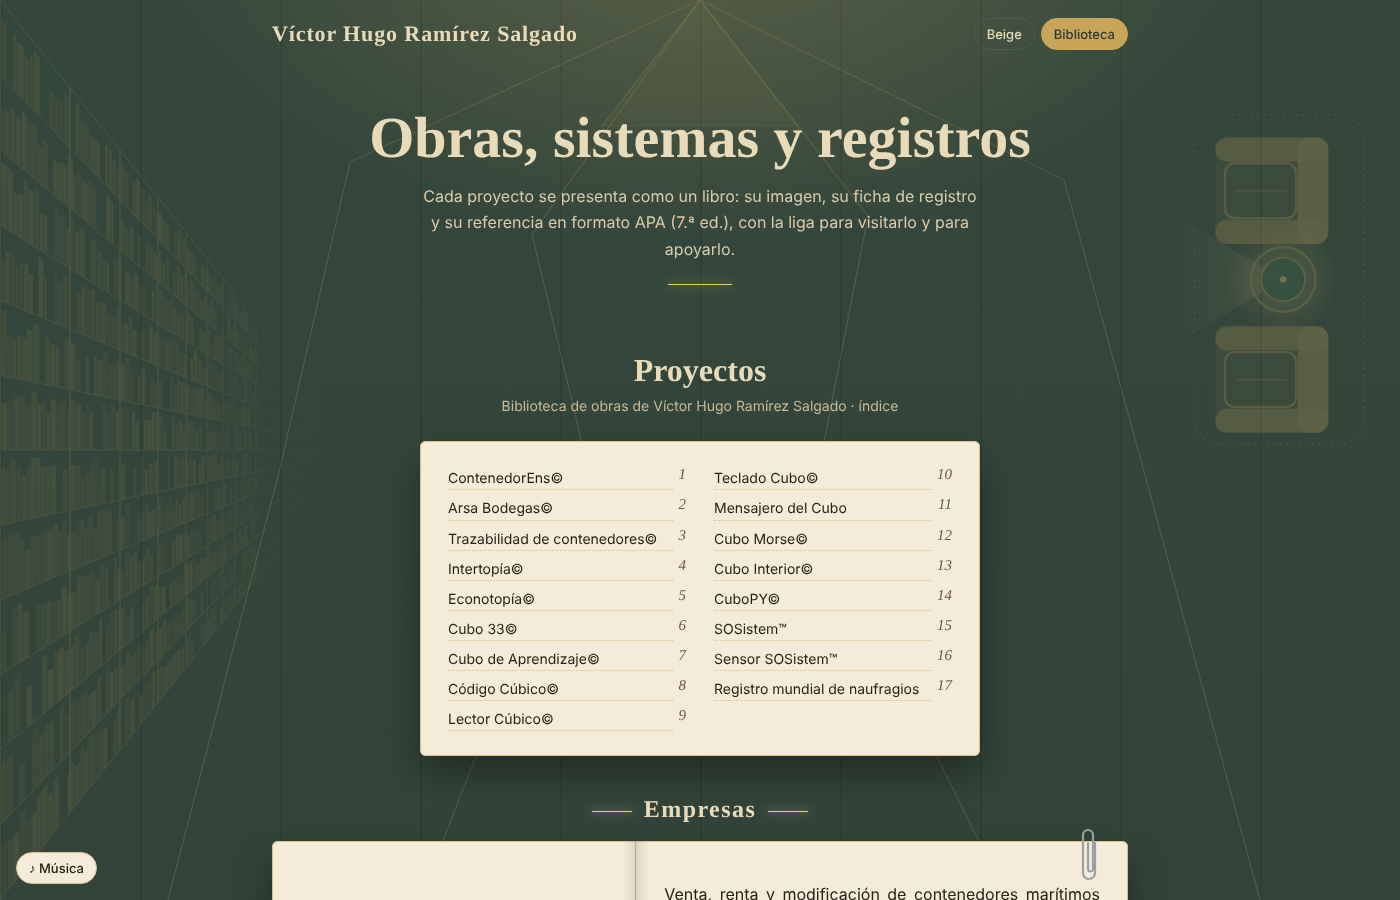
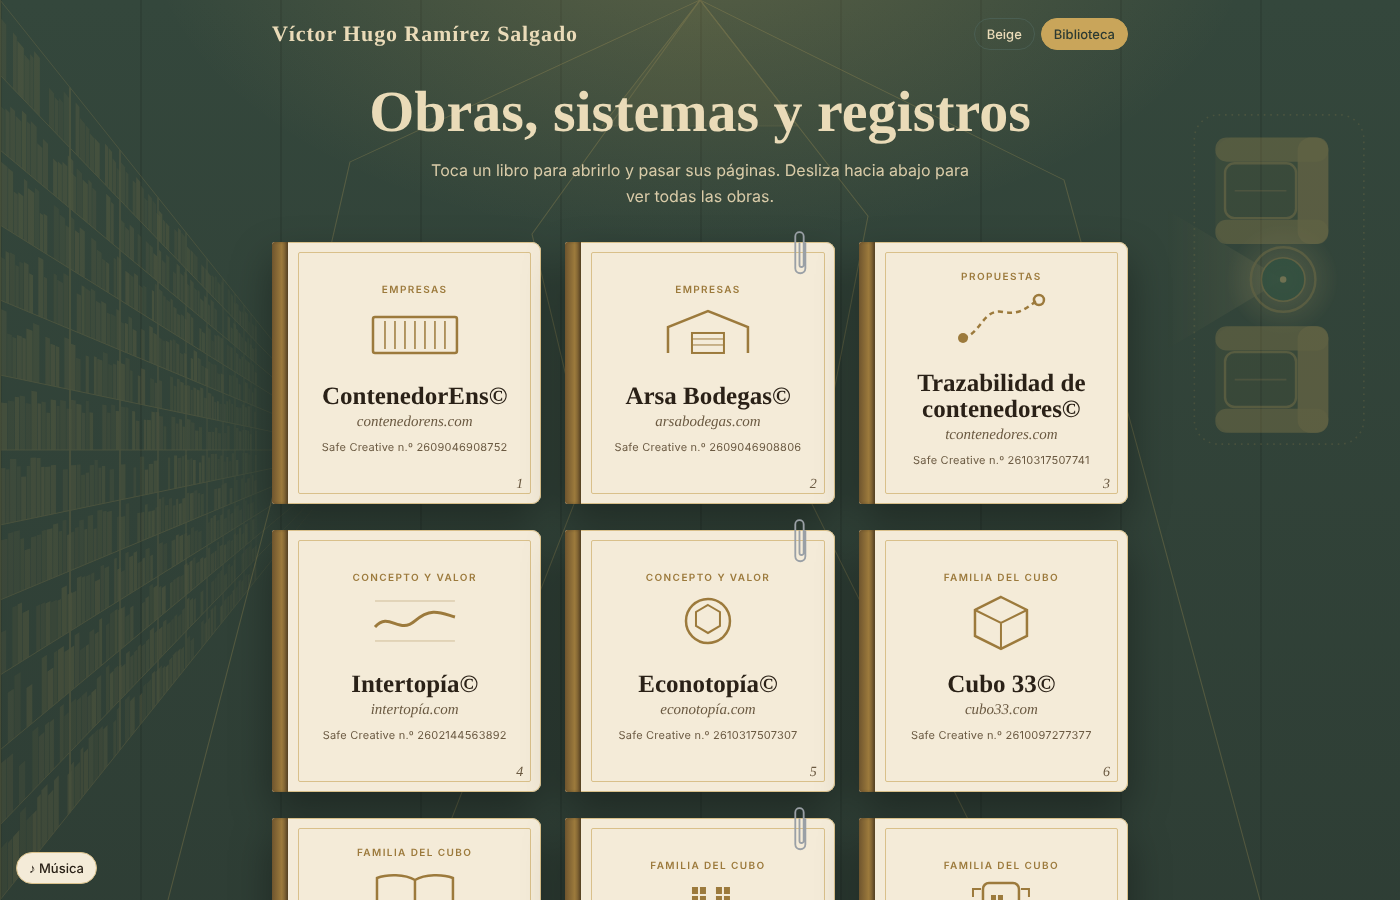
Propuesta: estante con las obras como libros (6 a la vista), libro abierto al tocar y pie de página con contacto y legales
Asistencia-IA

diff --git a/propuesta/index.html b/propuesta/index.html
@@ -7,7 +7,7 @@
 <title>Propuesta de diseño · Víctor Hugo Ramírez Salgado</title>
 <link rel="preconnect" href="https://fonts.googleapis.com"><link rel="preconnect" href="https://fonts.gstatic.com" crossorigin>
 <link href="https://fonts.googleapis.com/css2?family=Cormorant+Garamond:ital,wght@0,500;0,600;0,700;1,500&family=Inter:wght@400;500;600&display=swap" rel="stylesheet">
-<link rel="stylesheet" href="libro.css?v=2026-11-15a">
+<link rel="stylesheet" href="libro.css?v=2026-11-15b">
 </head>
 <body>
 <div class="libreria" aria-hidden="true"></div>
@@ -19,12 +19,12 @@
 
 <section class="intro">
 <h1>Obras, sistemas y registros</h1>
-<p>Abre el libro: pasa las páginas, amplía la lectura o toca la portada de cada obra para entrar a ella.</p>
-<div class="filete"></div>
+<p>Toca un libro para abrirlo y pasar sus páginas. Desliza hacia abajo para ver todas las obras.</p>
 </section>
 
+<section class="estante" id="estante" aria-label="Estante de obras"></section>
 <section class="lector" aria-label="Libro de obras">
- <div class="barra"><button class="nav" id="ant">‹ Anterior</button><span class="cuenta" id="cuenta"></span><button class="nav" id="ampliar" aria-pressed="false">⤢ Ampliar</button><button class="nav oro" id="sig">Siguiente ›</button></div>
+ <div class="barra"><button class="nav" id="ant">‹ Anterior</button><span class="cuenta" id="cuenta"></span><button class="nav" id="ampliar">✕ Cerrar libro</button><button class="nav oro" id="sig">Siguiente ›</button></div>
  <div class="libro" id="libro"></div>
  <div class="puntos" id="puntos"></div>
  <p class="ayuda">También puedes usar las flechas del teclado o deslizar el dedo sobre el libro.</p>
@@ -32,7 +32,7 @@
 
 <h2 class="sec">Constancia de obras registradas</h2>
 <p class="subt">Cada número se verifica en el sitio oficial de Safe Creative</p>
-<div class="constancia">
+<div class="constancia" id="constancia">
 <h3>Constancia de obras registradas</h3>
 <p class="quien">Autor y titular: Víctor Hugo Ramírez Salgado · Ensenada, Baja California, México</p>
 <table class="tabla" id="tabla"></table>
@@ -43,8 +43,16 @@
 </div>
 <p class="nota">Constancia elaborada por el autor. Los logotipos oficiales se colocan con el distintivo que cada institución entrega al titular.</p>
 </div>
-<footer>© 2026 Víctor Hugo Ramírez Salgado. Todos los derechos reservados. Propuesta de diseño, no publicada.</footer>
 </div>
+<footer class="pie">
+ <div class="pie-in">
+  <div><h4>Víctor Hugo Ramírez Salgado</h4><p>Autor y titular de las obras de esta biblioteca. Ensenada, Baja California, México.</p><p><a href="../cv/">Currículum</a> · <a href="../cv/en/">CV in English</a></p></div>
+  <div><h4>Obras</h4><p><a href="#estante">Estante de obras</a><br><a href="#constancia">Constancia de registros</a><br><a href="../indice/">Índice general</a><br><a href="../safecreative/">Registros en Safe Creative</a></p></div>
+  <div><h4>Contacto</h4><p>Teléfono y WhatsApp: <a href="tel:+526462270490">646 227 0490</a><br><a href="https://wa.me/526462270490" target="_blank" rel="noopener">Escribir por WhatsApp</a><br><a href="../contenedorens/">ContenedorEns©</a> · <a href="../arsabodegas/">Arsa Bodegas©</a></p></div>
+  <div><h4>Legal</h4><p><a href="../legal/privacidad.html">Aviso de privacidad</a><br><a href="../legal/terminos.html">Términos y condiciones</a><br><a href="../legal/reembolsos.html">Política de reembolsos</a></p></div>
+ </div>
+ <div class="pie-fin">© 2026 Víctor Hugo Ramírez Salgado. Todos los derechos reservados. Obras registradas en Safe Creative · SOSistem™ marca en trámite ante el IMPI (expediente 3741790).</div>
+</footer>
 
 <div class="musica" id="musica">
  <div class="musica-panel" role="dialog" aria-label="Música para leer">
@@ -61,8 +69,8 @@
  <button class="musica-btn" id="musica-btn" aria-expanded="false">♪ Música</button>
 </div>
 
-<script src="obras.js?v=2026-11-15a"></script>
-<script src="lector.js?v=2026-11-15a"></script>
+<script src="obras.js?v=2026-11-15b"></script>
+<script src="lector.js?v=2026-11-15b"></script>
 <script>
 const R=[['Intertopía©','2602144563892'],['1ntertopía©','2606096034080'],['ContenedorEns© (nombre y logo)','2609046908752'],['Arsa Bodegas© (nombre y logo)','2609046908806'],['Econotopía© 2.0','2610317507307'],['Código Cúbico©','2610097276721'],['Teclado Cubo©','2610097277155'],['Cubo Morse©','2610257441754'],['Juego del Cubo©','2611097590138'],['Plataforma SOSistem™ (series A y B)','2611097590053'],['…y 15 registros más','25 en total']];
 document.getElementById('tabla').innerHTML=R.map(([o,n])=>`<tr><td>${o}</td><td>${n}</td></tr>`).join('');

diff --git a/propuesta/libro.css b/propuesta/libro.css
@@ -147,3 +147,34 @@ body.ampliado .puntos,body.ampliado .ayuda{display:none}
  .pag.izq{padding:26px 20px 36px}.pag .img{width:30%}.pag.der{padding:40px 22px 46px}
  .intro h1{font-size:34px}
 }
+/* estante de libros (portada) */
+.estante{display:grid;grid-template-columns:repeat(3,1fr);gap:26px 24px;margin:6px auto 10px;perspective:1600px}
+.tapa{position:relative;display:flex;flex-direction:column;align-items:center;justify-content:center;gap:4px;min-height:262px;padding:24px 18px 30px 34px;background:var(--papel);border-radius:3px 9px 9px 3px;box-shadow:var(--sombra),inset 0 0 0 1px var(--linea);cursor:pointer;text-align:center;transition:transform .35s,box-shadow .35s;transform-origin:left center}
+.tapa:before{content:"";position:absolute;left:0;top:0;bottom:0;width:16px;border-radius:3px 0 0 3px;background:linear-gradient(90deg,#6F552E,var(--acento) 60%,#6F552E);box-shadow:inset -2px 0 3px rgba(0,0,0,.25)}
+.tapa:after{content:"";position:absolute;left:26px;right:10px;top:10px;bottom:10px;border:1px solid var(--linea);border-radius:2px;pointer-events:none}
+.tapa:hover,.tapa:focus-visible{transform:translateY(-6px) rotateY(-8deg);box-shadow:0 22px 40px rgba(0,0,0,.28),inset 0 0 0 1px var(--luz);outline:none}
+.tapa .cap{font:600 10px Inter,sans-serif;letter-spacing:.14em;text-transform:uppercase;color:var(--acento)}
+.tapa .img{color:var(--acento);width:46%;margin:4px auto}
+.tapa h3{font:600 25px/1.05 "Cormorant Garamond",Georgia,serif;margin:4px 0 0;color:var(--tinta)}
+.tapa .dom{font:italic 500 15px "Cormorant Garamond",Georgia,serif;color:var(--mut)}
+.tapa .reg{font-size:11px;color:var(--mut);letter-spacing:.02em;margin-top:4px}
+.tapa .num{position:absolute;right:18px;bottom:12px;font:italic 500 14px "Cormorant Garamond",Georgia,serif;color:var(--mut)}
+.tapa .clip{top:-14px;right:22px;height:52px}
+.lector{display:none}
+body.ampliado .lector{display:flex}
+/* pie de página */
+.pie{position:relative;z-index:1;margin-top:60px;padding:40px 22px 26px;background:rgba(43,38,32,.05);border-top:1px solid var(--linea)}
+body.biblioteca .pie{background:rgba(0,0,0,.22);border-top-color:#4A5E52;color:#D9CBA8}
+.pie-in{max-width:1000px;margin:0 auto;display:grid;grid-template-columns:repeat(4,1fr);gap:26px;font-size:13.5px;text-align:left}
+.pie h4{font:600 20px "Cormorant Garamond",Georgia,serif;margin:0 0 8px;color:var(--titulo)}
+.pie p{margin:0 0 8px;line-height:1.7}
+.pie a{color:inherit;text-decoration:none;border-bottom:1px dotted currentColor}
+.pie a:hover{color:var(--luz)}
+.pie-fin{max-width:1000px;margin:26px auto 0;padding-top:16px;border-top:1px solid var(--linea);font-size:12px;text-align:center;color:var(--mut)}
+body.biblioteca .pie-fin{color:#BFAF8C;border-top-color:#4A5E52}
+@media (max-width:900px){.estante{grid-template-columns:repeat(2,1fr)}.pie-in{grid-template-columns:repeat(2,1fr)}}
+@media (max-width:520px){
+ .estante{gap:16px 12px}.tapa{min-height:196px;padding:16px 8px 22px 22px}.tapa:before{width:11px}.tapa:after{left:18px;right:6px;top:6px;bottom:6px}
+ .tapa h3{font-size:18px}.tapa .dom{font-size:12.5px}.tapa .reg{font-size:9.5px}.tapa .cap{font-size:8.5px}.tapa .img{width:52%}
+ .pie-in{grid-template-columns:1fr}.intro{padding:6px 0 16px}.intro h1{font-size:30px}.intro p{font-size:14px}
+}

diff --git a/propuesta/lector.js b/propuesta/lector.js
@@ -35,7 +35,7 @@ function pinta(){
  document.getElementById('ant').disabled=k<0&&v==='a';
  document.getElementById('sig').disabled=k===P.length-1&&v==='b';
  [...puntos.children].forEach((x,i)=>x.classList.toggle('on',i===k+1));
- history.replaceState(null,'',(location.hash.includes('biblioteca')?'#biblioteca':'')+(k>=0?`${location.hash.includes('biblioteca')?'&':'#'}obra-${k+1}`:''));
+ if(document.body.classList.contains('ampliado')||k>=0&&m) history.replaceState(null,'',(location.hash.includes('biblioteca')?'#biblioteca':'')+(k>=0?`${location.hash.includes('biblioteca')?'&':'#'}obra-${k+1}`:''));
 }
 function ir(nk,nv,dir){
  if(nk===k&&nv===v)return;
@@ -57,9 +57,16 @@ L.onclick=e=>{
  if(t.classList.contains('izq')&&k>=0)location.href=paginaObra(k);
 };
 const amp=document.getElementById('ampliar');
-const ampliar=on=>{document.body.classList.toggle('ampliado',on);amp.textContent=on?'‹ Regresar':'⤢ Ampliar';amp.setAttribute('aria-pressed',on)};
-amp.onclick=()=>ampliar(!document.body.classList.contains('ampliado'));
-document.addEventListener('keydown',e=>{if(e.key==='ArrowRight')sig();if(e.key==='ArrowLeft')ant();if(e.key==='Escape')ampliar(false)});
+const ampliar=on=>{document.body.classList.toggle('ampliado',on);if(!on)history.replaceState(null,'',location.hash.includes('biblioteca')?'#biblioteca':location.pathname)};
+amp.onclick=()=>ampliar(false);
+// estante: cada obra como libro cerrado; al tocarlo se abre el libro en esa obra
+const est=document.getElementById('estante');
+est.innerHTML=P.map(([g,n,d,i,t,r],k)=>`<article class="tapa" tabindex="0" data-k="${k}" aria-label="Abrir ${n}">${k%3===1?CLIP:''}<div class="cap">${g}</div><div class="img">${I[i]}</div><h3>${n}</h3><div class="dom">${d}</div><div class="reg">Safe Creative n.º ${r}</div><span class="num">${k+1}</span></article>`).join('');
+const abrir=nk=>{k=nk;v='a';ampliar(true);pinta()};
+est.onclick=e=>{const t=e.target.closest('.tapa');if(t)abrir(+t.dataset.k)};
+est.onkeydown=e=>{const t=e.target.closest('.tapa');if(t&&(e.key==='Enter'||e.key===' ')){e.preventDefault();abrir(+t.dataset.k)}};
+document.addEventListener('keydown',e=>{if(!document.body.classList.contains('ampliado'))return;if(e.key==='ArrowRight')sig();if(e.key==='ArrowLeft')ant();if(e.key==='Escape')ampliar(false)});
 let x0=null;L.addEventListener('touchstart',e=>x0=e.touches[0].clientX,{passive:true});
 L.addEventListener('touchend',e=>{if(x0===null)return;const dx=e.changedTouches[0].clientX-x0;if(Math.abs(dx)>60)(dx<0?sig:ant)();x0=null});
 pinta();
+if(m)ampliar(true);

diff --git a/propuesta/obra.html b/propuesta/obra.html
@@ -7,7 +7,7 @@
 <title>Obra · Víctor Hugo Ramírez Salgado</title>
 <link rel="preconnect" href="https://fonts.googleapis.com"><link rel="preconnect" href="https://fonts.gstatic.com" crossorigin>
 <link href="https://fonts.googleapis.com/css2?family=Cormorant+Garamond:ital,wght@0,500;0,600;0,700;1,500&family=Inter:wght@400;500;600&display=swap" rel="stylesheet">
-<link rel="stylesheet" href="libro.css?v=2026-11-15a">
+<link rel="stylesheet" href="libro.css?v=2026-11-15b">
 <style>
 /* © 2026 Víctor Hugo Ramírez Salgado — página de cada obra. Asistencia-IA. */
 .obra{max-width:820px;margin:10px auto 0;background:var(--papel);border-radius:6px;box-shadow:var(--sombra),inset 0 0 0 1px var(--linea);padding:44px 56px 60px;position:relative}
@@ -33,7 +33,7 @@
 <article class="obra" id="obra"></article>
 <footer>© 2026 Víctor Hugo Ramírez Salgado. Todos los derechos reservados.</footer>
 </div>
-<script src="obras.js?v=2026-11-15a"></script>
+<script src="obras.js?v=2026-11-15b"></script>
 <script>
 const slug=n=>n.normalize('NFD').replace(/[̀-ͯ]/g,'').replace(/[©™]/g,'').trim().toLowerCase().replace(/[^a-z0-9]+/g,'-').replace(/^-|-$/g,'');
 const id=new URLSearchParams(location.search).get('id');
